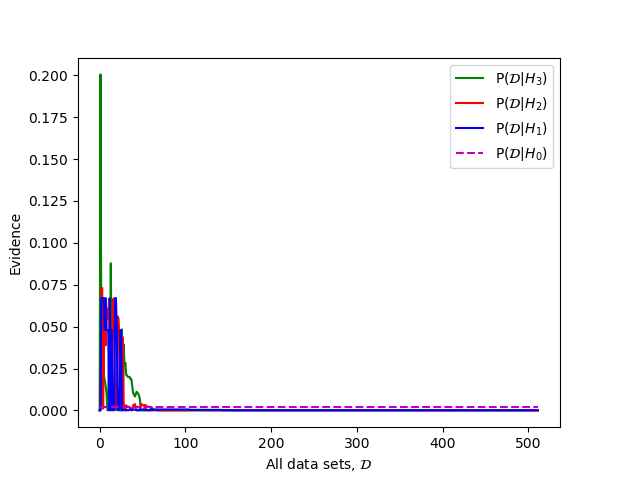
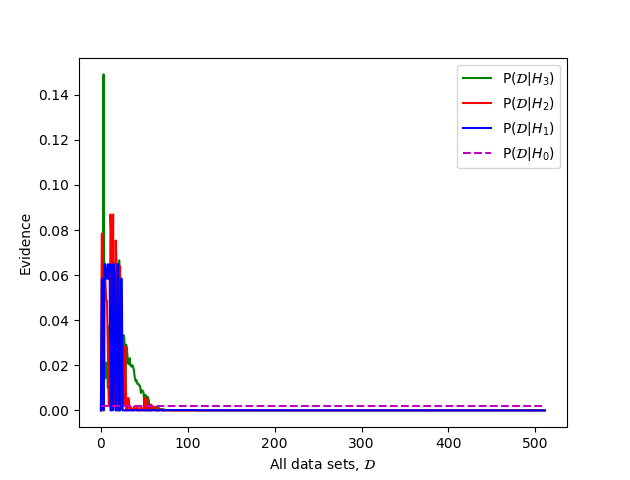
Write description for README, fix graph images and add check for arguments in code

diff --git a/code.py b/code.py
@@ -128,6 +128,10 @@ def order_data_sets(data):
         L.append(LL)
     return L
 
+if (len(sys.argv) < 2):
+    print("Please supply either graph or draw as an argument")
+    exit(1)
+
 data = np.zeros([4,512])
 d = generate_D()
 

diff --git a/README.md b/README.md
@@ -10,20 +10,33 @@ can be found online at
 
 ## Description
 
-What it shows
+Please find the python code in `code.py`
+
+These graphs and data sets show that by comparing the evidence of Bayesian models
+the simplest model is preffered as in Occam's razor. We create an example
+dataset of all the possibly labellings of a 3x3 grid, either o or x.
+
+We then formulate four simple models: H&#8320; assigns constant probability,
+H&#8321; is linear regression with a parameter for one dimension, H&#8322; a
+linear regression with parameters for both dimensions and H&#8323; the same as
+H&#8322; with the addition of an bias parameter. You should see that as a model
+increases in complexity it places more probability among a greater number of
+datasets and is therefore less sure while the simpler models despite describing
+fewer models assign more of their weight to the data they can describe well.
+
+The datasets for which the evidence is maximal are also displayed below and these
+are coherent with our models.  H&#8320; has equal evidence for all the datasets
+so is ignored, but H&#8321; and H&#8322; are clearly linearly boundaries in one
+and two dimensions while the bias parameter of H&#8323; allows it to push the
+boundary off of the dataset.
+
+The datasets for the graphs are ordered as in the Appendix of the paper.
 
 ## Results
 
-![All data sets](all_data_sets.png)
+![All data sets](graphs/all_data_sets.png)
 
-![Subset data sets](subset_data_sets.png)
-
-Dataset that maximises P(D|H&#8320;)
-```
-o o o 
-o o o 
-o o o 
-```
+![Subset data sets](graphs/subset_data_sets.png)
 
 Dataset that maximises P(D|H&#8321;)
 ```
